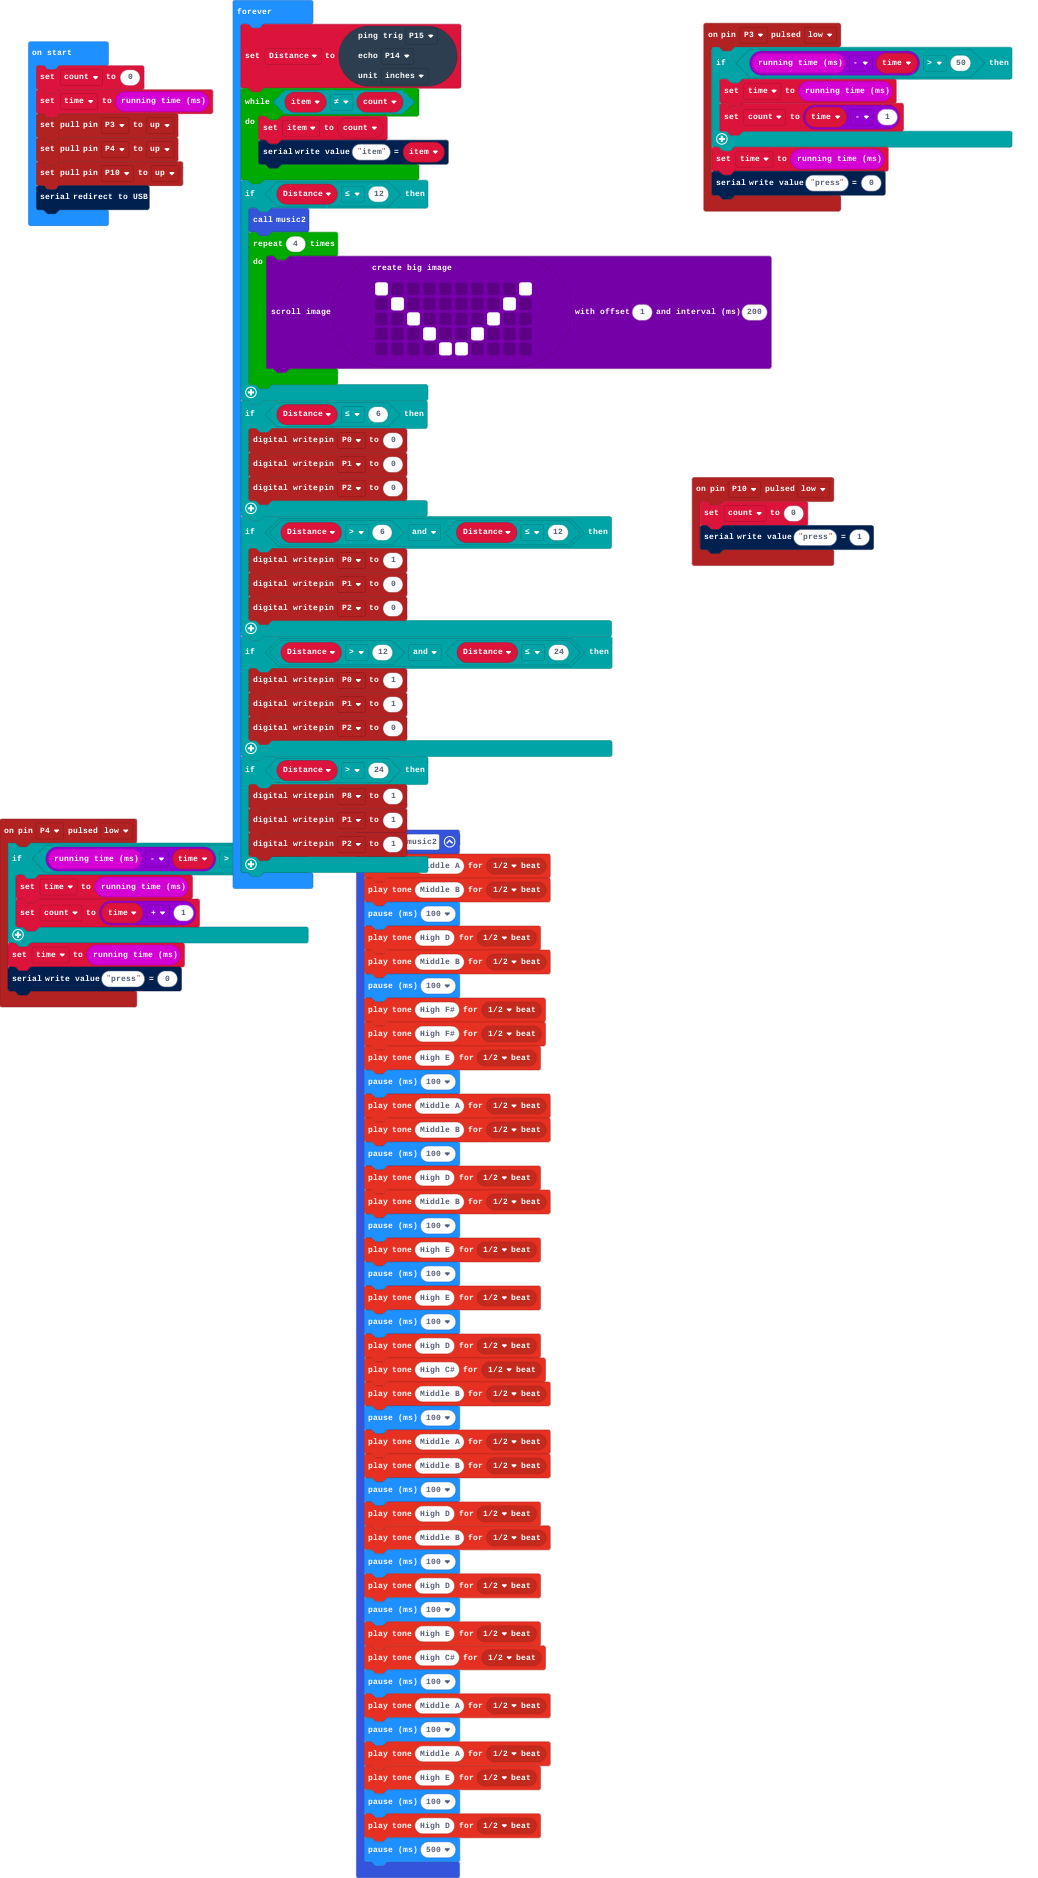
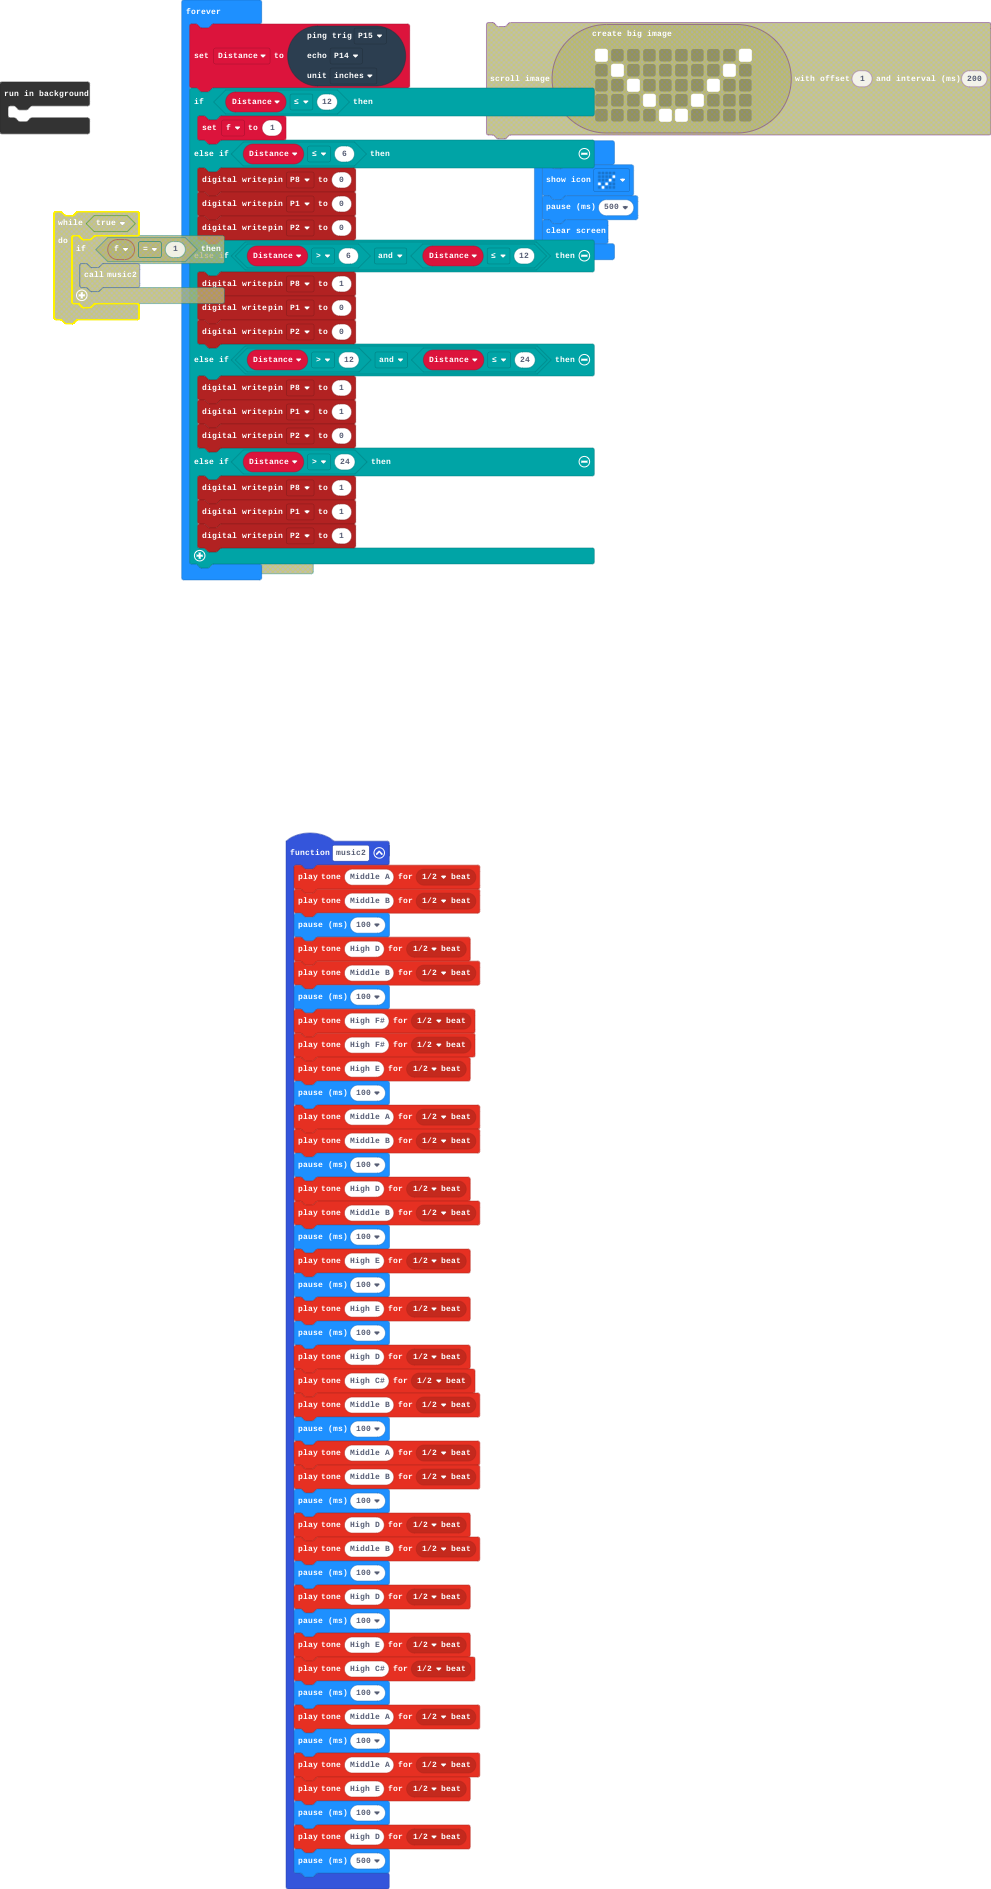
Progress...

diff --git a/main.ts b/main.ts
@@ -1,23 +1,3 @@
-pins.onPulsed(DigitalPin.P4, PulseValue.Low, function () {
-    if (input.runningTime() - time > 50) {
-        time = input.runningTime()
-        count = time + 1
-    }
-    time = input.runningTime()
-    serial.writeValue("press", 0)
-})
-pins.onPulsed(DigitalPin.P3, PulseValue.Low, function () {
-    if (input.runningTime() - time > 50) {
-        time = input.runningTime()
-        count = time - 1
-    }
-    time = input.runningTime()
-    serial.writeValue("press", 0)
-})
-pins.onPulsed(DigitalPin.P10, PulseValue.Low, function () {
-    count = 0
-    serial.writeValue("press", 1)
-})
 function music2 () {
     music.playTone(440, music.beat(BeatFraction.Half))
     music.playTone(494, music.beat(BeatFraction.Half))
@@ -62,56 +42,37 @@ function music2 () {
     music.playTone(587, music.beat(BeatFraction.Half))
     basic.pause(500)
 }
-let item = 0
+let f = 0
 let Distance = 0
-let time = 0
-let count = 0
-count = 0
-time = input.runningTime()
-pins.setPull(DigitalPin.P3, PinPullMode.PullUp)
-pins.setPull(DigitalPin.P4, PinPullMode.PullUp)
-pins.setPull(DigitalPin.P10, PinPullMode.PullUp)
-serial.redirectToUSB()
+basic.showIcon(IconNames.Yes)
+basic.pause(500)
+basic.clearScreen()
 basic.forever(function () {
     Distance = sonar.ping(
     DigitalPin.P15,
     DigitalPin.P14,
     PingUnit.Inches
     )
-    while (item != count) {
-        item = count
-        serial.writeValue("item", item)
-    }
     if (Distance <= 12) {
-        music2()
-        for (let index = 0; index < 4; index++) {
-            images.createBigImage(`
-                # . . . . . . . . #
-                . # . . . . . . # .
-                . . # . . . . # . .
-                . . . # . . # . . .
-                . . . . # # . . . .
-                `).scrollImage(1, 200)
-        }
-    }
-    if (Distance <= 6) {
-        pins.digitalWritePin(DigitalPin.P0, 0)
+        f = 1
+    } else if (Distance <= 6) {
+        pins.digitalWritePin(DigitalPin.P8, 0)
         pins.digitalWritePin(DigitalPin.P1, 0)
         pins.digitalWritePin(DigitalPin.P2, 0)
-    }
-    if (Distance > 6 && Distance <= 12) {
-        pins.digitalWritePin(DigitalPin.P0, 1)
+    } else if (Distance > 6 && Distance <= 12) {
+        pins.digitalWritePin(DigitalPin.P8, 1)
         pins.digitalWritePin(DigitalPin.P1, 0)
         pins.digitalWritePin(DigitalPin.P2, 0)
-    }
-    if (Distance > 12 && Distance <= 24) {
-        pins.digitalWritePin(DigitalPin.P0, 1)
+    } else if (Distance > 12 && Distance <= 24) {
+        pins.digitalWritePin(DigitalPin.P8, 1)
         pins.digitalWritePin(DigitalPin.P1, 1)
         pins.digitalWritePin(DigitalPin.P2, 0)
-    }
-    if (Distance > 24) {
+    } else if (Distance > 24) {
         pins.digitalWritePin(DigitalPin.P8, 1)
         pins.digitalWritePin(DigitalPin.P1, 1)
         pins.digitalWritePin(DigitalPin.P2, 1)
     }
+})
+control.inBackground(function () {
+	
 })
